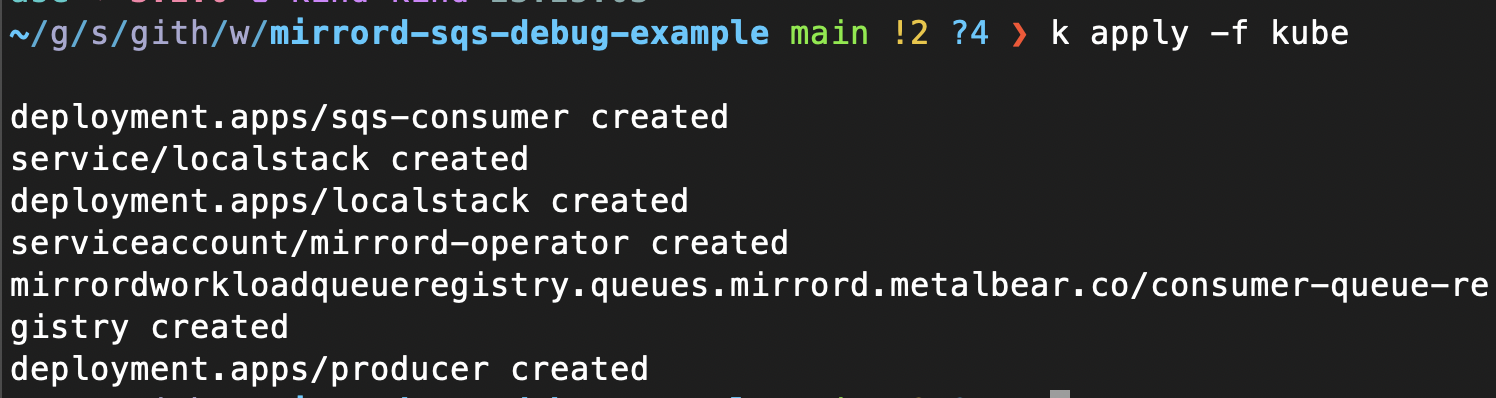
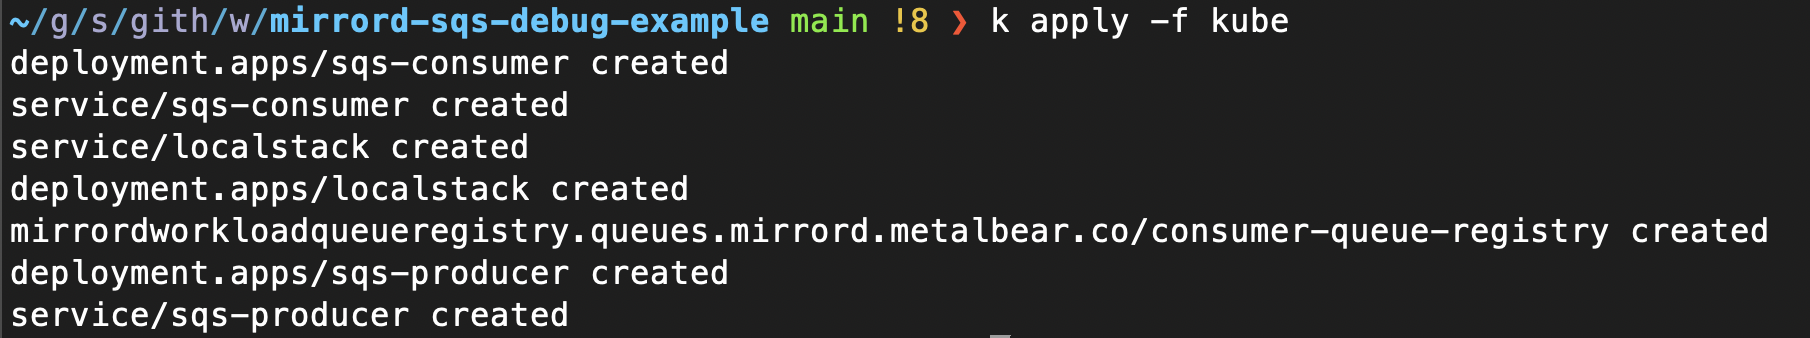
update picture, and remove service account

diff --git a/README.md b/README.md
@@ -77,10 +77,13 @@ kubectl apply -f kube/
 ```
 
 This will deploy:
-- LocalStack service for SQS emulation
-- Producer deployment with web UI
-- Consumer deployment
-- mirrord operator configuration
+- LocalStack service for SQS emulation in the `default` namespace
+- Producer deployment with web UI in the `default` namespace
+- Consumer deployment in the `default` namespace
+- mirrord operator configuration in the `mirrord` namespace
+- Queue registry in the `mirrord` namespace
+
+Note: The consumer deployment is annotated with `mirrord.metalbear.co/enabled: "true"` for mirrord integration.
 
 ## Debugging with mirrord
 
@@ -122,6 +125,7 @@ The application uses LocalStack to emulate SQS in local development:
 - LocalStack runs on port 4566
 - All services are configured to use LocalStack's endpoint
 - Test AWS credentials are used for authentication
+- The SQS queue is automatically created by an init container in the LocalStack deployment
 
 ### mirrord Queue Splitting
 

diff --git a/blog.md b/blog.md
@@ -78,12 +78,12 @@ Using Helm:
 helm repo add metalbear https://metalbear-co.github.io/charts
 
 # Install the chart with queue splitting enabled
-helm install --set license.key=your-license-key mirrord-operator metalbear/mirrord-operator
+helm install --set license.key=your-license-key --set operator.sqsSplitting=true mirrord-operator metalbear/mirrord-operator
 ```
 
 Or using the CLI:
 ```bash
-mirrord operator setup --accept-tos --license-key your-license-key --queue-splitting | kubectl apply -f -
+mirrord operator setup --accept-tos --license-key your-license-key --sqs-splitting --aws-role-arn 12345 | kubectl apply -f -
 ```
 
 **Note:** When installing with the mirrord-operator Helm chart, queue splitting is enabled by setting the `operator.queueSplitting` value to `true`.
